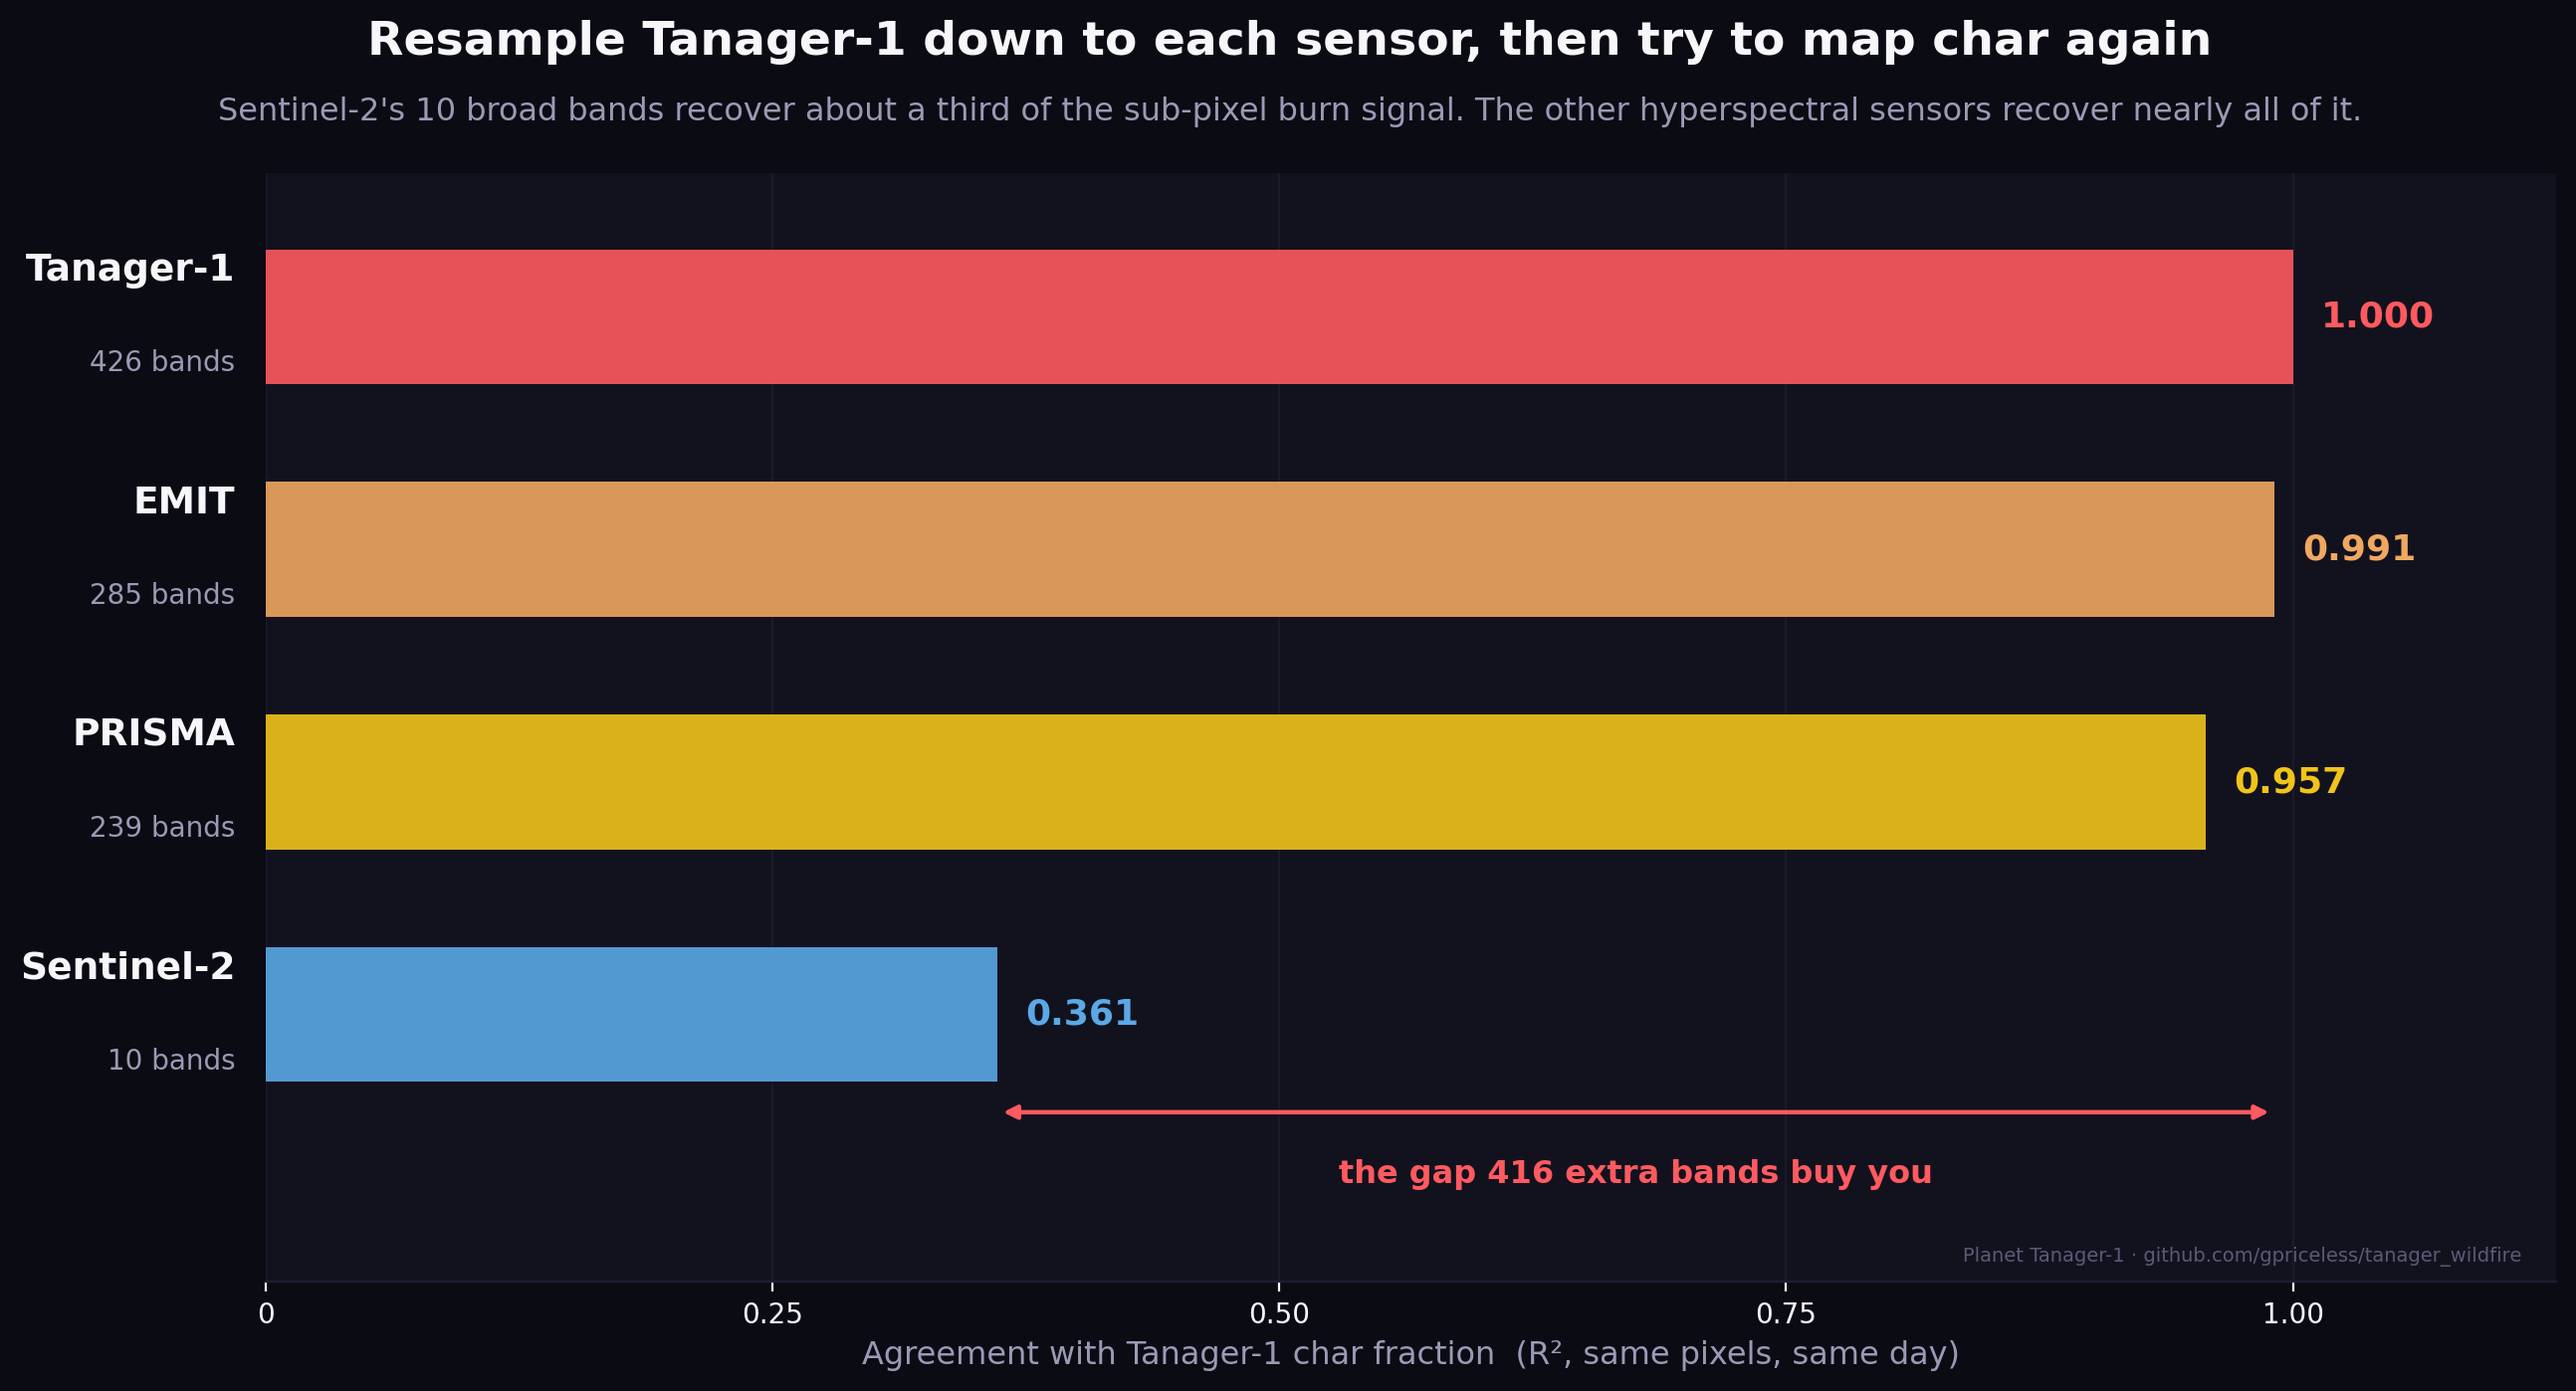
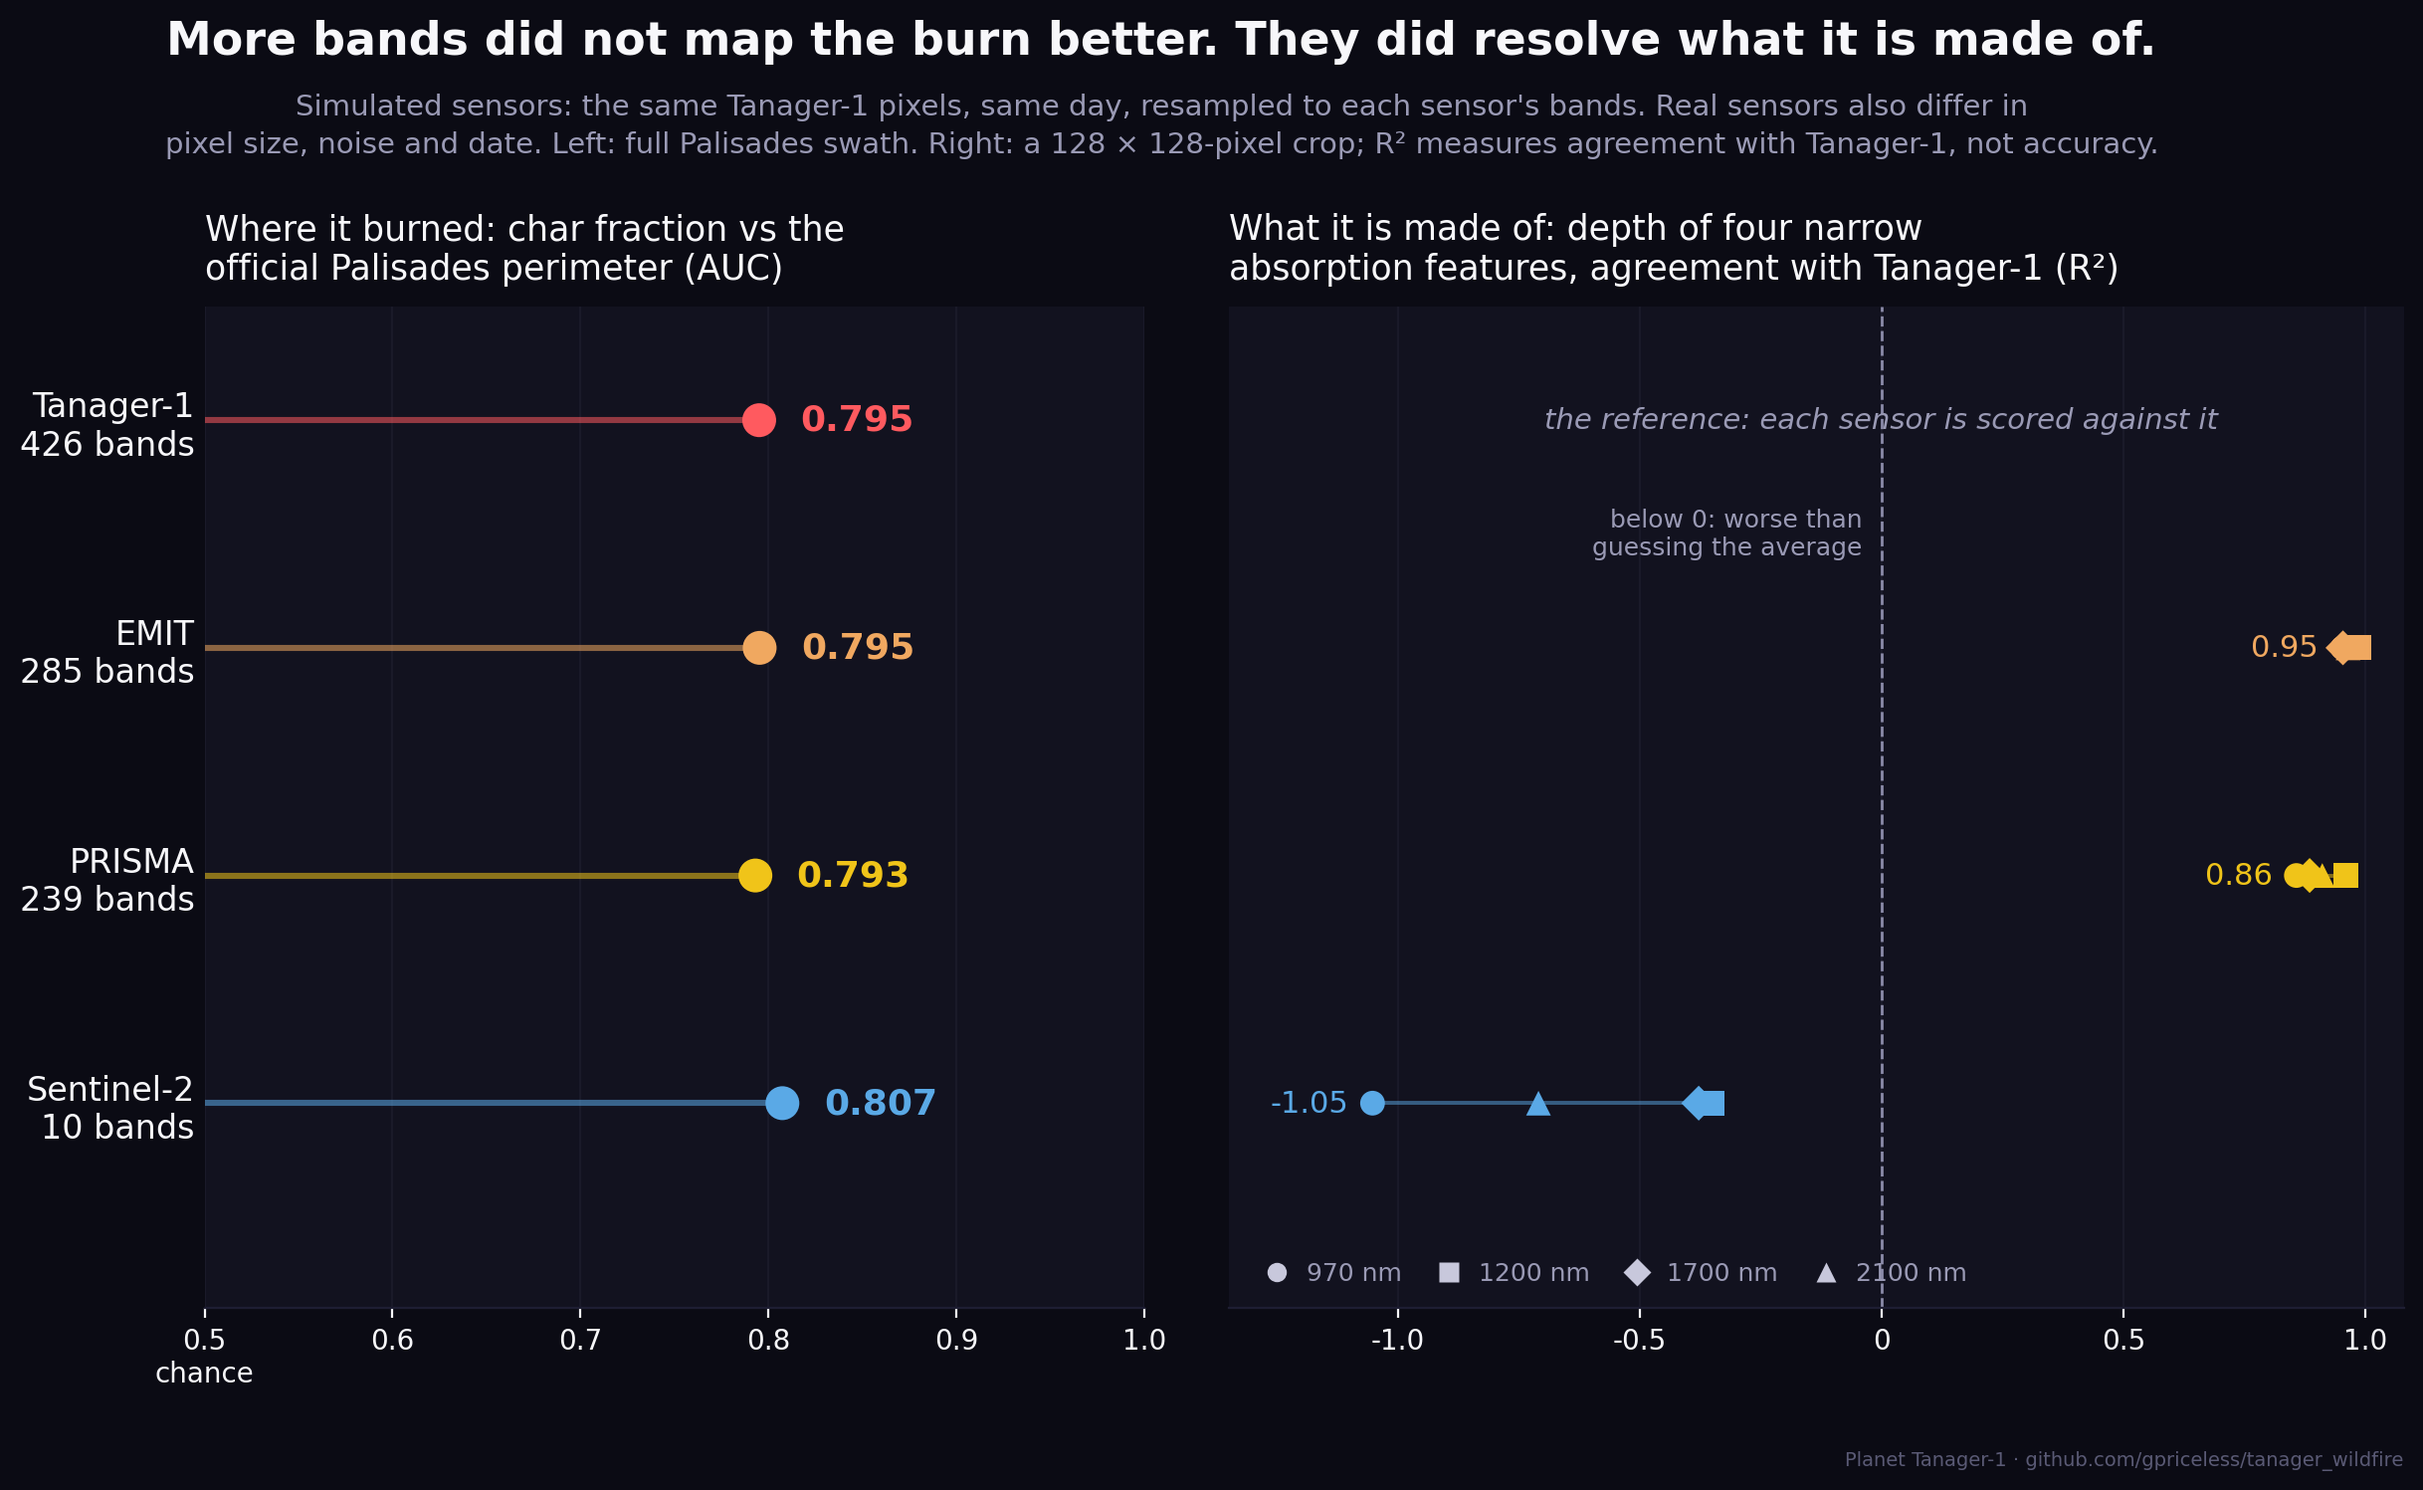
feat(figures): rebuild the sensor comparison on external references
The chart plotted char R² against native Tanager from image-derived
endmembers (0.991 / 0.957 / 0.361). With the USGS library those values
move, and against the Palisades perimeter the Sentinel-2-band char map
scores AUC 0.807 against 0.795 native. The "416 extra bands" gap was a
property of the endmembers, not of the sensors.

The new figure has two panels. The left shows char perimeter AUC per
simulated sensor. The right shows the absorption-depth R² against native
Tanager, where the band count does separate the sensors. Values are read
from the committed CSVs. The simulation and agreement-vs-accuracy caveats
are printed on the image.

diff --git a/scripts/generate_social_figures.py b/scripts/generate_social_figures.py
@@ -746,66 +746,112 @@ def fig_structures() -> None:
 # ---------------------------------------------------------------------------
 
 def fig_sensor_comparison() -> None:
+    """Simulated sensors: char extent against the perimeter, absorption depths.
+
+    Every number is read from the outputs of ``scripts/sensor_comparison_usgs.py``
+    (USGS splib07a library, Tanager-1 resampled to each sensor's bands). The
+    earlier version of this figure plotted char R² against native Tanager from
+    image-derived endmembers (0.991 / 0.957 / 0.361); those values moved with
+    the library and are no longer published.
+    """
+    import pandas as pd
+
     print("  [8] Sensor comparison ...")
-    sensors = [
-        ("Tanager-1", 426, 1.000, "#ff5a5f"),
-        ("EMIT", 285, 0.991, "#f0a860"),
-        ("PRISMA", 239, 0.957, "#f0c419"),
-        ("Sentinel-2", 10, 0.361, "#5aa9e6"),
+    referents = pd.read_csv(sb.OUTPUTS / "sensor_comparison_usgs_referents.csv",
+                            index_col="sensor")
+    free = pd.read_csv(sb.OUTPUTS / "sensor_comparison_usgs_endmember_free.csv")
+    free = free[free["demand"] == "absorption"]
+
+    sensors = [  # (label in the CSVs, display name, bands, colour)
+        ("Native", "Tanager-1", 426, "#ff5a5f"),
+        ("EMIT", "EMIT", 285, "#f0a860"),
+        ("PRISMA", "PRISMA", 239, "#f0c419"),
+        ("Sentinel-2", "Sentinel-2", 10, "#5aa9e6"),
     ]
-
-    fig, ax = plt.subplots(figsize=(13, 7), dpi=200)
-    sb.style_dark(fig, ax)
-
-    names = [s[0] for s in sensors]
-    vals = [s[2] for s in sensors]
-    bands = [s[1] for s in sensors]
-    colors = [s[3] for s in sensors]
+    features = ["CR 970 nm", "CR 1200 nm", "CR 1700 nm", "CR 2100 nm"]
+    markers = ["o", "s", "D", "^"]
     ypos = np.arange(len(sensors))[::-1]
 
-    ax.barh(ypos, vals, height=0.58, color=colors, alpha=0.9, zorder=3,
-            edgecolor="none")
-    for y, name, v, b, c in zip(ypos, names, vals, bands, colors):
-        ax.text(v + 0.014, y, f"{v:.3f}", va="center", ha="left",
-                fontsize=13, fontweight="bold", color=c, zorder=5)
-        ax.text(-0.015, y + 0.20, name, va="center", ha="right", fontsize=13.5,
-                fontweight="bold", color=sb.TEXT_COLOR, zorder=5)
-        ax.text(-0.015, y - 0.20, f"{b} bands", va="center", ha="right",
-                fontsize=10, color=sb.SUBTITLE_COLOR, zorder=5)
-
-    ax.annotate(
-        "", xy=(0.361, ypos[-1] - 0.42), xytext=(0.991, ypos[-1] - 0.42),
-        arrowprops=dict(arrowstyle="<|-|>", color=sb.ACCENT, lw=1.6), zorder=6,
+    fig, (ax_auc, ax_r2) = plt.subplots(
+        1, 2, figsize=(13, 7.4), dpi=200, sharey=True,
+        gridspec_kw=dict(width_ratios=[1, 1.25], wspace=0.08),
     )
-    ax.text(0.676, ypos[-1] - 0.62,
-            "the gap 416 extra bands buy you",
-            ha="center", va="top", fontsize=11.5, color=sb.ACCENT,
-            fontweight="bold", zorder=6)
+    sb.style_dark(fig, [ax_auc, ax_r2])
 
-    ax.set_xlim(0, 1.13)
-    ax.set_ylim(ypos[-1] - 1.15, ypos[0] + 0.62)
-    ax.set_yticks([])
-    ax.set_xticks([0, 0.25, 0.5, 0.75, 1.0])
-    ax.set_xticklabels(["0", "0.25", "0.50", "0.75", "1.00"], fontsize=10)
-    ax.set_xlabel(
-        "Agreement with Tanager-1 char fraction  (R², same pixels, same day)",
-        fontsize=11.5, color=sb.SUBTITLE_COLOR,
+    # Left: char fraction against the official Palisades perimeter.
+    for y, (key, _, _, c) in zip(ypos, sensors):
+        v = float(referents.loc[key, "perimeter_auc"])
+        ax_auc.hlines(y, 0.5, v, color=c, lw=2.2, alpha=0.55, zorder=3)
+        ax_auc.scatter(v, y, s=150, color=c, zorder=4, edgecolor="none")
+        ax_auc.text(v + 0.022, y, f"{v:.3f}", va="center", ha="left",
+                    fontsize=13, fontweight="bold", color=c, zorder=5)
+    ax_auc.set_xlim(0.5, 1.0)
+    ax_auc.set_xticks([0.5, 0.6, 0.7, 0.8, 0.9, 1.0])
+    ax_auc.set_xticklabels(["0.5\nchance", "0.6", "0.7", "0.8", "0.9", "1.0"],
+                           fontsize=10)
+    ax_auc.set_title("Where it burned: char fraction vs the\nofficial "
+                     "Palisades perimeter (AUC)", fontsize=12.5,
+                     color=sb.TEXT_COLOR, loc="left", pad=10)
+
+    # Right: continuum-removed absorption depths, agreement with Tanager-1.
+    for y, (key, _, _, c) in zip(ypos, sensors):
+        if key == "Native":
+            ax_r2.text(0.0, y, "the reference: each sensor is scored against it",
+                       va="center", ha="center", fontsize=10.5, style="italic",
+                       color=sb.SUBTITLE_COLOR, zorder=5)
+            continue
+        rows = free[free["sensor"] == key].set_index("product")["r2"]
+        vals = [float(rows[f]) for f in features]
+        ax_r2.hlines(y, min(vals), max(vals), color=c, lw=1.4, alpha=0.5, zorder=3)
+        for v, m in zip(vals, markers):
+            ax_r2.scatter(v, y, s=80, marker=m, color=c, zorder=4, edgecolor="none")
+        lo = min(vals)
+        ax_r2.text(lo - 0.05, y, f"{lo:.2f}", va="center", ha="right",
+                   fontsize=11, color=c, zorder=5)
+    ax_r2.axvline(0.0, color="#8a8aa8", lw=1.0, ls="--", zorder=2)
+    ax_r2.text(-0.04, (ypos[0] + ypos[1]) / 2, "below 0: worse than\nguessing the average",
+               fontsize=9, color=sb.SUBTITLE_COLOR, va="center", ha="right")
+    ax_r2.set_xlim(-1.35, 1.08)
+    ax_r2.set_xticks([-1.0, -0.5, 0.0, 0.5, 1.0])
+    ax_r2.set_xticklabels(["-1.0", "-0.5", "0", "0.5", "1.0"], fontsize=10)
+    ax_r2.set_title("What it is made of: depth of four narrow\nabsorption "
+                    "features, agreement with Tanager-1 (R²)", fontsize=12.5,
+                    color=sb.TEXT_COLOR, loc="left", pad=10)
+    ax_r2.legend(
+        handles=[Line2D([0], [0], marker=m, color="none", markerfacecolor="#c8c8dc",
+                        markeredgecolor="none", markersize=7,
+                        label=f.replace("CR ", ""))
+                 for f, m in zip(features, markers)],
+        loc="lower left", bbox_to_anchor=(0.0, 0.0), ncol=4, frameon=False,
+        fontsize=9, labelcolor=sb.SUBTITLE_COLOR, handletextpad=0.2,
+        columnspacing=0.9,
     )
-    ax.grid(True, axis="x", alpha=0.12, color="#555577", zorder=0)
-    for s in ("top", "right", "left"):
-        ax.spines[s].set_visible(False)
 
-    fig.text(0.5, 0.99,
-             "Resample Tanager-1 down to each sensor, then try to map char again",
-             ha="center", fontsize=17, fontweight="bold",
+    for ax in (ax_auc, ax_r2):
+        ax.set_ylim(ypos[-1] - 0.9, ypos[0] + 0.5)
+        ax.grid(True, axis="x", alpha=0.12, color="#555577", zorder=0)
+        for side in ("top", "right", "left"):
+            ax.spines[side].set_visible(False)
+        ax.tick_params(axis="y", length=0)
+    ax_auc.set_yticks(ypos)
+    ax_auc.set_yticklabels([f"{name}\n{b} bands" for _, name, b, _ in sensors],
+                           fontsize=12, color=sb.TEXT_COLOR)
+
+    fig.text(0.5, 0.995,
+             "More bands did not map the burn better. They did resolve what it is made of.",
+             ha="center", fontsize=16.5, fontweight="bold",
              color=sb.TEXT_COLOR, va="top")
-    fig.text(0.5, 0.935,
-             "Sentinel-2's 10 broad bands recover about a third of the sub-pixel "
-             "burn signal. The other hyperspectral sensors recover nearly all of it.",
-             ha="center", fontsize=11.5, color=sb.SUBTITLE_COLOR, va="top")
+    fig.text(0.5, 0.945,
+             "Simulated sensors: the same Tanager-1 pixels, same day, resampled to "
+             "each sensor's bands. Real sensors also differ in\npixel size, noise and "
+             "date. Left: full Palisades swath. Right: a 128 × 128-pixel crop; R² "
+             "measures agreement with Tanager-1, not accuracy.",
+             ha="center", fontsize=10.5, color=sb.SUBTITLE_COLOR, va="top",
+             linespacing=1.45)
 
-    sb.credit(ax, right=True)
-    fig.tight_layout(pad=1.0, rect=[0, 0, 1, 0.90])
+    fig.text(0.98, 0.01, sb.credit_text(), fontsize=7, color=sb.CREDIT_COLOR,
+             ha="right", va="bottom")
+    fig.subplots_adjust(left=0.13, right=0.98, top=0.80, bottom=0.12)
     print("      ->", sb.save(fig, "sensor_comparison.png"))
     plt.close(fig)
 

diff --git a/scripts/export_social_variants.py b/scripts/export_social_variants.py
@@ -98,12 +98,18 @@ ALT_TEXT: dict[str, str] = {
         "0.23, with the two distributions clearly overlapping."
     ),
     "sensor_comparison.png": (
-        "Horizontal bar chart. Agreement with Tanager-1's char fraction map "
-        "after resampling the same pixels down to each sensor's bands: "
-        "Tanager-1 with 426 bands scores 1.000, EMIT with 285 bands 0.991, "
-        "PRISMA with 239 bands 0.957, and Sentinel-2 with 10 bands only 0.361. "
-        "An arrow spans the gap between Sentinel-2 and the hyperspectral "
-        "sensors."
+        "Two-panel dot chart comparing four satellite sensors, simulated by "
+        "resampling the same Tanager-1 pixels to each sensor's bands. Left, how "
+        "well a char-fraction map separates the inside of the official "
+        "Palisades Fire perimeter from the outside, as AUC where 0.5 is chance: "
+        "Tanager-1 with 426 bands 0.795, EMIT with 285 bands 0.795, PRISMA with "
+        "239 bands 0.793 and Sentinel-2 with 10 bands 0.807, all close "
+        "together. Right, how closely each sensor reproduces Tanager-1's depth "
+        "of four narrow absorption features at 970, 1200, 1700 and 2100 "
+        "nanometres, as R²: EMIT 0.95 to 0.99, PRISMA 0.86 to 0.96, and "
+        "Sentinel-2 between −1.05 and −0.35, worse than guessing the "
+        "average. The headline reads: more bands did not map the burn better; "
+        "they did resolve what it is made of."
     ),
     "palisades_before_after.gif": (
         "Two-frame animation of the Santa Monica Mountains that cuts between 15 "

diff --git a/figures/social/ALT_TEXT.md b/figures/social/ALT_TEXT.md
@@ -38,7 +38,7 @@ Map of the Palisades Fire footprint in the Santa Monica Mountains. Colour shows 
 
 ## sensor_comparison.png
 
-Horizontal bar chart. Agreement with Tanager-1's char fraction map after resampling the same pixels down to each sensor's bands: Tanager-1 with 426 bands scores 1.000, EMIT with 285 bands 0.991, PRISMA with 239 bands 0.957, and Sentinel-2 with 10 bands only 0.361. An arrow spans the gap between Sentinel-2 and the hyperspectral sensors.
+Two-panel dot chart comparing four satellite sensors, simulated by resampling the same Tanager-1 pixels to each sensor's bands. Left, how well a char-fraction map separates the inside of the official Palisades Fire perimeter from the outside, as AUC where 0.5 is chance: Tanager-1 with 426 bands 0.795, EMIT with 285 bands 0.795, PRISMA with 239 bands 0.793 and Sentinel-2 with 10 bands 0.807, all close together. Right, how closely each sensor reproduces Tanager-1's depth of four narrow absorption features at 970, 1200, 1700 and 2100 nanometres, as R²: EMIT 0.95 to 0.99, PRISMA 0.86 to 0.96, and Sentinel-2 between −1.05 and −0.35, worse than guessing the average. The headline reads: more bands did not map the burn better; they did resolve what it is made of.
 
 ## spectral_signatures.png
 
